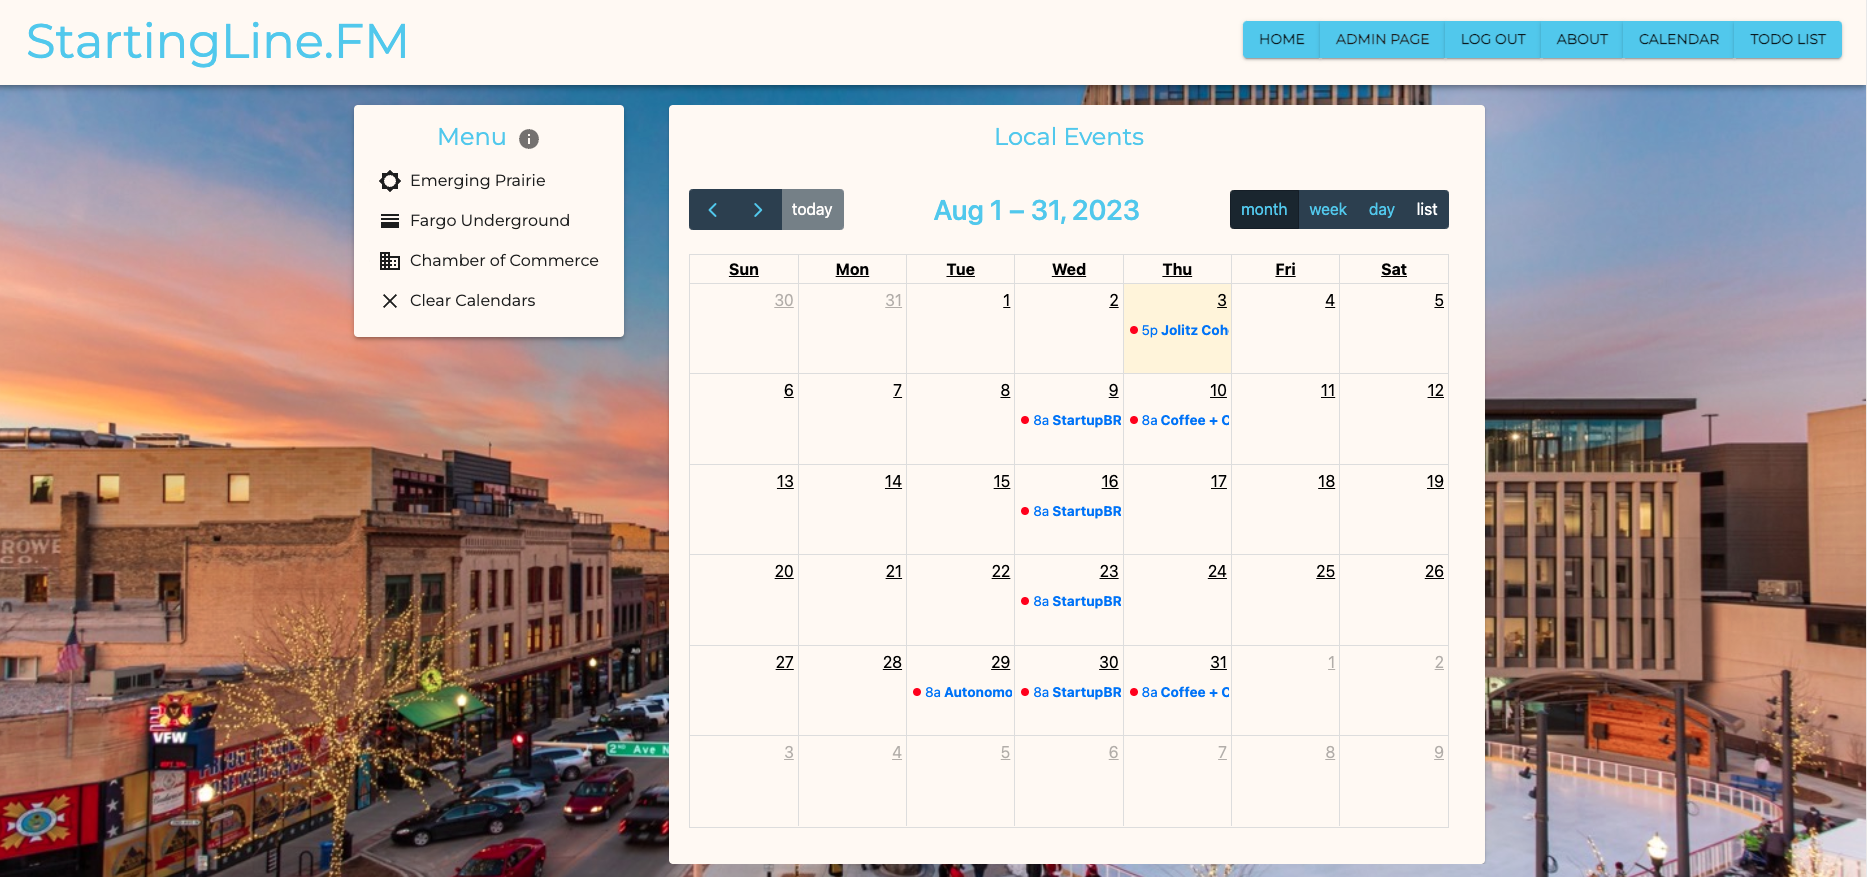
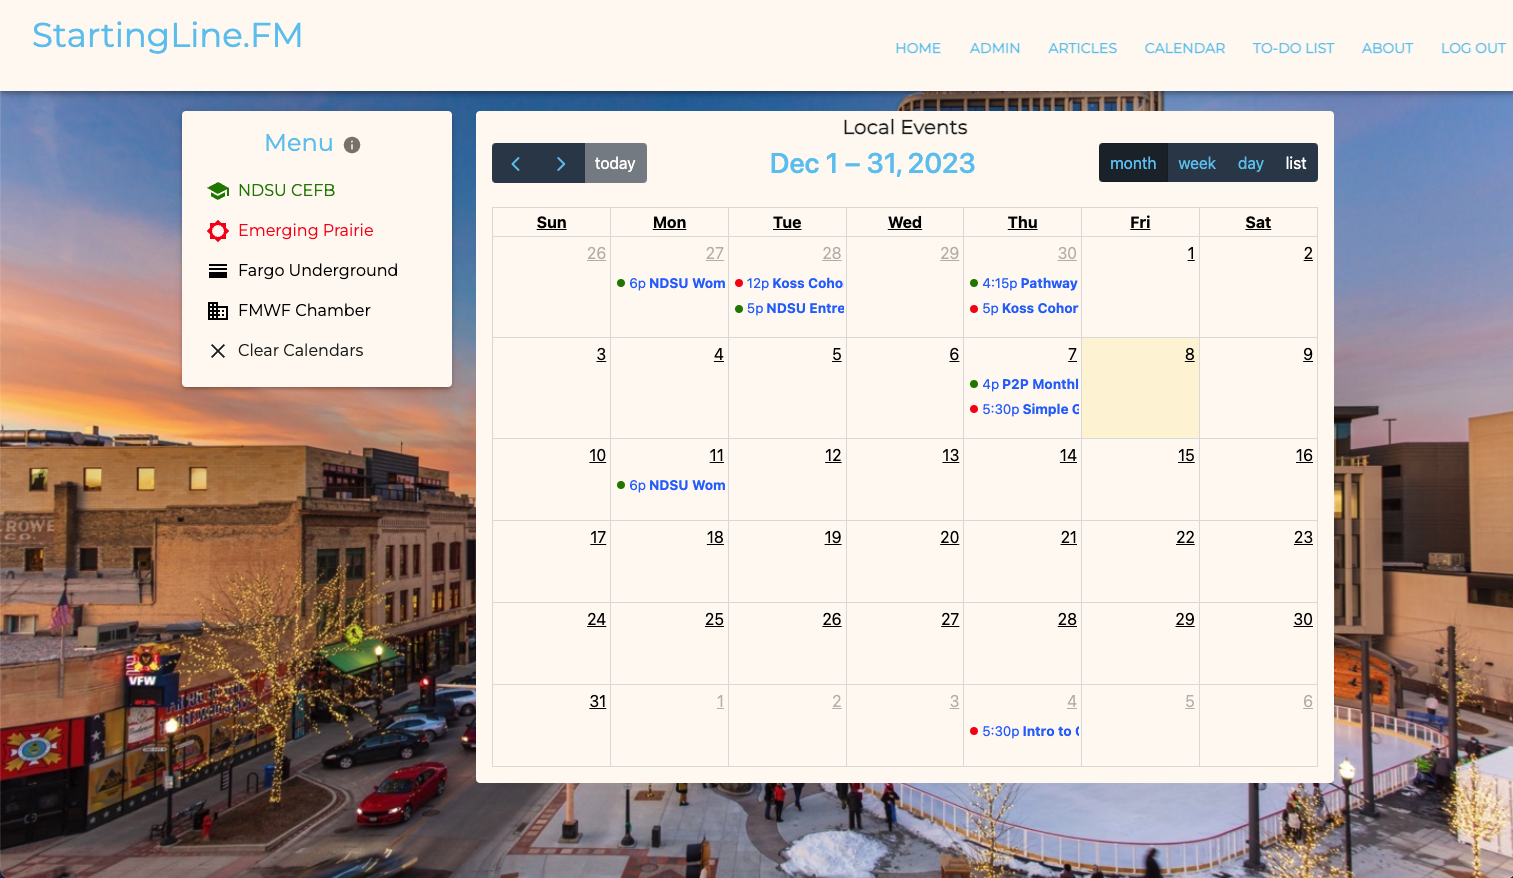
updated documentation
ReadMe and About page updated.

New screenshots for ReadMe.

diff --git a/src/components/Pages/AboutPage/AboutPage.jsx b/src/components/Pages/AboutPage/AboutPage.jsx
@@ -1,12 +1,6 @@
 import React from 'react';
 import { Container, Typography, Paper, List, ListItem, ListItemText } from '@mui/material';
 
-
-// This is one of our simplest components
-// It doesn't have local state,
-// It doesn't dispatch any redux actions or display any part of redux state
-// or even care what the redux state is'
-
 function AboutPage() {
   // style constants
   const titleStyle = { fontWeight: 'bold', marginBottom: '8px' };
@@ -36,29 +30,51 @@ function AboutPage() {
 
       <Paper style={{ marginTop: '20px', padding: '20px' }}>
         <Typography variant="h6" style={titleStyle} align="center">
-          Project and Team Information:
+          Jolitz Cohort Information:
         </Typography>
         <Typography variant="body1">
-          The project was the result of the first-time collaboration of a team comprising of Kord Maurer, Eyan Anderson, Sawyer Jensen, and Jack Blonigen. Their collective expertise and shared commitment paved the way for the creation of a web app to serve the startup business ecosystem for North Dakota State University.
+          StartingLine is the result of one of the two client projects executed by Emerging Digital Academy's Jolitz Cohort over the summer of 2023. The original StartingLine team consisted of Kord Maurer, Eyan Anderson, Sawyer Jenson, and Jack Blonigen. The four worked together to create the original MVP, each tackling one of four primary components. Individual contribution include....
         </Typography>
         <List>
           <ListItem>
-            <ListItemText primary="Kord Maurer" secondary="Kord stepped up to the challenge, demonstrating his technical abilities and teamwork skills in his first ever team project. Kord took the lead in developing a robust search filter, crafting an engaging landing page, and managing the presentation of search results. His versatility shone through in his assistance with the ToDo section, his work on the database, and his attention to aesthetic detail in the general styling of the project." />
+            <ListItemText primary="Kord Maurer" secondary="Kord took the lead in developing StartingLine's orginal search input algorithm, crafting and styling an engaging landing page, and managing the presentation of search results into the cards. He also contributed heavily with the ToDo section, database schemas, and his attention to aesthetic detail." />
           </ListItem>
           <ListItem>
-            <ListItemText primary="Eyan Anderson" secondary="Eyan navigated his first team project with a steadfast determination and quickly became a core member of the team. He undertook the demanding task of developing the majority of the ToDo section, creating an intuitive and functional tool for users. Eyan also played a significant role in shaping the project's aesthetic, contributing to the general styling and ensuring a visually cohesive and engaging user experience." />
+            <ListItemText primary="Eyan Anderson" secondary="Eyan undertook the task of developing the majority of the ToDo list feature, creating this intuitive and functional tool for users. Eyan also played a significant role in shaping the project's aesthetic, contributing to the general styling and ensuring a visually cohesive and engaging user experience." />
           </ListItem>
           <ListItem>
-            <ListItemText primary="Sawyer Jensen" secondary="For Sawyer, the project presented an opportunity to delve into team dynamics for the first time, and he embraced it with enthusiasm. He undertook the complex task of learning to scrape data and worked diligently on components of the admin section, contributing to general styling. His notable accomplishment was the implementation of the calendar, a feature that has added great value to the project." />
+            <ListItemText primary="Sawyer Jenson" secondary="Sawyer is the madman who did the Calendar feature; learning to web scrape data, apply regex expressions, and timezones; integrating all of it into the react full calendar api. He built and designed the institution side menu and the majority of the calendar feature. He also contributed to the admin page." />
           </ListItem>
           <ListItem>
-            <ListItemText primary="Jack Blonigen" secondary="Jack, despite being new to working in a team, demonstrated strong leadership and technical skills. He successfully handled the primary aspects of the admin section, ensuring a smooth backend functionality. Jack's expertise shone in his work on the calendar features specific to Google and his detailed work on the about section. His general contributions to styling further elevated the overall user experience." />
+            <ListItemText primary="Jack Blonigen" secondary="Jack handled the majority of the original admin section, writing most of the back end code, as well as front end forms. Jack also was the one to figure out and implement the google calendar functionality within StartingLine's own calendar. He also contributed greatly to original documentation." />
           </ListItem>
         </List>
         <Typography variant="body1" style={listItemStyle}>
           The foundation built by this first-time team sets the stage for an effective resource platform that could revolutionize the startup ecosystem in the Fargo-Moorhead area.
         </Typography>
       </Paper>
+
+
+
+      <Paper sx={{ mt: 3, p: 3 }}>
+        <Typography variant="h6" style={titleStyle} align="center">
+          Emerging Digital Academy Co-Op Program:
+        </Typography>
+        <Typography variant="body1" style={listItemStyle}>
+          In September of 2023, a little over a month after the Jolitz Cohort graduated on August 3rd, the EDA Co-Op program was born. Kord and Sawyer would continue working on the StartingLine application for Dr. Onnolee Nordstrom and Dr. Joshua Marineu.
+        </Typography>
+        <Typography variant="body1" style={listItemStyle}>
+          Over the Fall and Winter of 2023 Kord and Sawyer oversaw multiple bug fixes and visual changes including mobile responsiveness. The tag system was overhauled from just two separate tags to the five categories we have now. The Calendar also added its fourth institution, NDSU CEFB which is Dr. Onnolee's Office. The calendar was also changed to do a database cron-job instead of single GET requests that scraped the institution calendars live. The admin page also got a comprehensive facelift. 
+        </Typography>
+        <Typography variant="body1" style={listItemStyle}>
+          The most exhaustive and profound addition was the Algolia implementaion, a search handling software seen in applications like Amazon. Our hope is that one day StartingLine will have so many resources to filter through that this will be appreciated and help with rapid scaling.
+        </Typography>
+        <Typography variant="body1" style={listItemStyle}>
+          {/* Nothing, write a new paragraph here if you want. */}
+        </Typography>
+      </Paper>
+
+
 
       <Paper style={{ marginTop: '20px', padding: '20px' }}>
         <Typography variant="h6" style={titleStyle} align="center">

diff --git a/README.md b/README.md
@@ -2,61 +2,55 @@
 
 StartingLine.FM is a web app with the budding entrepreneur in mind!
 It's an online hub for entrepreneurial growth for those in the Fargo, Moorhead, West Fargo North Dakota (FMWF) area.
-This appllication was built as a client project for NDSU's department of business and entrepreneurship.
-The application aims to provide a centralized location for local resources. 
+This appllication was built by Emerging Digital Academy's Jolitz cohort as a client project for NDSU's center for entrepreneurship and family business during the Summer of 2023.
+The application aims to provide a centralized location for local resources.
+As of Winter 2023 it is now integrated with Algolia for a more thorough search experience. 
 
 The application has four primary components.
 
 1. The landing page where you search out resources that come in as cards, which can then be saved to a to-do list.
 2. The to-do list where all saved resources will appear. Users can edit notes, mark done, and remove them. 
-3. A three in one calendar that scrapes three different institutions web calendars to see local events. They are...
+3. A calendar that scrapes different institutions web calendars to see local events. They are...
   -Emerging Prairie
   -Fargo Underground
   -FMWF Chamber of Commerce
-4. Finally, an admin mode to add, edit, and delete resources as well as business categories and stages. 
-
-
+  -NDSU CEFB (Added in Fall of 2023)
+4. Finally, an admin mode to add, edit, and delete resources as well as all the tags that can be put on said resources. 
 
 ## Landing and Search Page
 
 ![Alt text](public/images/landing-page-screenshot.png)
 
-The Landing Page presents the user with a list of all resources available in alphabetical order upon arrival to the application.
-Users may narrow down their results using any combination of the Search bar, Category filters, and Business Stage filters on the left-hand side of the page.
-The result cards provide users with an at-a-glance view of the most relevant information for a resource: name, description, category, and applicable business stage. 
-By clicking on the card itself, users will see a pop-up modal containing more details, including contact information. The full set of possible information fields in the result modal are as follows: name, description, website, linkedin, email, address, category, and business stage. 
+-The Landing Page presents the user with twenty resources upon arrival.
+-Users may narrow down their results using the Search input which will query upon key stroke.
+-The application shows twenty resources on screen at a time. This is to prevent uneeded charges and a paid plan by Algolia.
+-Users can also access algolia refinement menus from the dropdowns on the left to better find what they're looking for using a system of five tags to better categoriaze resources.
+-The result cards provide users with an at-a-glance view of the most relevant information for a resource: name, description, support, entrepreneur, and funding tags. 
+-By clicking on the card itself, users will see a pop-up modal containing more details, including contact information. The full set of possible information fields in the result modal are as follows: name, description, website, linkedin, email, address, support tags, funding tags, entrepreneur tags, business stage tags, and organization tags(for example government).
 
-There are additional functionalities depending on the type of user as well:
+## Here is a breakdown of StartingLineFM's tag system:
+- Business Stage: What stage of the entrepreneurial process this resource best help.
+- Support Type: What kind of support this resource can offer an entrepreneur.
+- Funding TYpe: What kind of funding or funding assistance can be accessed here.
+- Entrepreneur: Some resources cater to a specific entrepreneur type or demographic.
+- Organization: What kind of institution this is; government, private, non-profit, etc.
 
-### Anonymous (unregistered) user:
-Ability to add a resource to a temporary to-do list via the `+ icon` button
-
-### Logged-in 
-- Ability to select from all available user to-do lists via the "Select a To-Do List" sidebar
-- Ability to add a resource to a selected to-do list via the `+ icon` button
-- If a user does not have any to-do lists to select, one will be automatically added with a generic "TO-DO (current date)" title and set as the currently selected list upon clicking the `+ icon` button on a resource
-
-### Admin
-Ability to edit resource details via the `edit icon` button in the Result modal
-
-## To-do List Page
+## To-Do Lists & Different types of users:
 
 ![Alt text](public/images/to-do-list-screenshot.png)
 
- *** EYAN INSERTS HIS DESCRIPTION HERE ***
- This to-do list page allows for users to create actionable steps to move toward their business goals. It provides a space for them to keep their resources that they thought would be a good fit for their business. 
+ This to-do list page allows for users to create actionable steps to move toward their business goals. It provides a space for them to keep their resources that they thought would be a good fit for their business.
 
- This page works for two types of users. 
+  This page works for two types of users.  
 
- ### Anonymous User
+Anonymous (unregistered) user:
  1. An anonymous user arrives to their to-do list tab and sees a list of their resources 
  - Click the `edit icon` to edit resources by adding notes to particular resources.
  - Click the `delete icon` to delete resources off of their todo list if they want to remove a resource.
  - Click the `copy icon` to copy their list of resources and their notes(if there are any) to their clipboard to paste into a workflow of their choice.
- - Click `Click here to register an account` to keep their current to-do list and associated titles. 
- - 
- 
- ### Logged In User
+ - Click `Click here to register an account` to keep their current to-do list and associated titles which will move onto the newly created account. 
+
+Logged-in (registered) user:
  1. A logged in user arrives on their to-do list tab and is met with two tables one with ther todo lists and one with the associated resources. 
  - View their lists on the landing page and choose which list to add resources to. 
  - Make multiple lists by clicking the `+` to add a list title and clicking the save icon to save it. 
@@ -68,47 +62,43 @@ Ability to edit resource details via the `edit icon` button in the Result modal
 
 ![Alt text](public/images/Calendar-page-screenshot.png)
 
+The motivation behind this calendar was that of the rest of this project, an eventual one-stop shop for the entrepreneur. Scheduling and managing a calendar is key for any business professional. We wanted a single calendar that can pull in relevant business events from other institutions event calendars. This helps save a potential researcher time from navigating multiple internet browser tabs and calendars. 
 
-The motivation behind this calendar was that of the rest of this project, an eventual one-stop shop for the entrepreneur. Scheduling and managing a calendar is key for any business professional. We wanted a single calendar that can pull in relevant business events from other institution calendars. This helps save a potential researcher time from navigating multiple internet browser tabs and calendars. 
-
-The calendar uses the Cheerio.js technology to scrape the relevant institutions web calendar. When you push one of the three institution buttons it launches an HTTP GET request to the relevant internet URL, Cheerio uses JQuery to scrape the relevant divs and spans,which are all consolidated into calendar block objects which are then put into an events array. The events array is the response to the client, they are placed into the relevant reducer which supplies data to the Fullcalendar.
-
-Multiple institutions can populate the calendar at once; Emerging Prairie is Red, Fargo Underground orange, and the chamber is purple. The Clear button will wipe all events off allowing better clarity and curating. If you mouse over a calendar event you will see more details on that event. Clicking the event will open your own google calendar and pre-populate the fields with what you saw when mousing over the event. You can use the upper buttons to toggle a month, week, day, or list view. The arrow buttons navigate through time windows. The today button will take you back to the current day.
-
-There are some significant vulnerabilities in this calendar to be aware of. Since the button press is what directly pulls the information, it will fail or break if that institution's calendar or webpage is down or reworked in the future (StartlingLine.FM was launched August 2023). 
+-The calendar uses the Cheerio.js technology to scrape the relevant institutions web calendar. -On weekdays from 8 am to 6 pm, at the top of the hour, a cron job will scrape all four institutions web calendars and place it in StartingLine's postgres databases.
+-Users can hit the info button right of "Menu" to see a guide on how to use the calendar.
+-Press one of the four institution buttons on under the left menu to add their events to the   StartingLine calendar. Clicking the button again will toggle that institution off.
+-Multiple institutions can populate the calendar at once; Emerging Prairie is Red, Fargo Underground orange, the chamber of commerce is purple, and NDSU CEFB is green. 
+-The Clear button will simply toggle all institutions off clearing the calendar. 
+-If you mouse over a calendar event you will see more details on that event. 
+-Clicking the event will open your own google calendar and pre-populate the fields with what you saw when mousing over the event. 
+-You can use the upper right buttons on the calendar to toggle a month, week, day, or list view. 
+-The arrow buttons navigate through time windows. 
+-The today button will take you back to the current day.
+-The Calendar cron job is set up to not take duplicates and delete events over 12 months old.
 
 ## Admin Page
 
-![Alt text](public/images/admin-page-screenshot.png)
+![Alt text](public/images/admin-edit-modal-screenshot.png)
+![Alt text](public/images/admin-page-screenshot-1.png)
+![Alt text](public/images/admin-page-screenshot-2.png)
 
+StartingLine users that are marked as admin gain access to two features.
 
-This Node.js Admin Router package is designed to streamline the management of administrative tasks related to three key data entities: Resources, Categories, and Stages. Encapsulating a series of RESTful API endpoints, the package provides the ability to execute CRUD (Create, Read, Update, Delete) operations for these entities, with each operation gated behind authentication and authorization middleware for secure and reliable administrative access control.
+1. Ability to edit or delete resources via the `edit icon` button in the Result modal.
+-The admin can edit any of the data fields or properties of a resource and confirm with save.
+-A resource must have an Organization and Business Stage and can only have one.
+-A resouce can optionally have a single entrepreneur tag.
+-A resource can have up to three support and up to three funding tags, or none at all.
+-To remove support/funding tags, change the selector to the default -- add a tag -- option.
+-Hit the save `disc icon` to confirm changes or the `X icon` to discard changes and leave the edit modal.
+-This edits the resource in the database and then saves to synchronize with algolia. 
 
-Key Features:
-Resource Management: Leverage the API to create, read, update, and delete resource records. Each resource holds specific details such as stage_id, category_id, name, image_url, description, website, email, address, and LinkedIn URL.
+2.Admin Users can also access the admin tab/page, a robust administrative interface.
+-Under the "Contribute Resource" form, new resources can be added to startingline's database which will synchronize with algolia's index. It then will appear on the landing page where it can be interacted with like any resource.
+-Scrolling down a ways will show multiple forms/cards for each of the five tag types. Here an admin can add, edit, or delete any tag under the five tag types. 
 
-Category Management: Manage categories through the dedicated endpoints that allow you to create, read, update, and delete category records. Each category consists of a unique name.
-
-Stage Management: Utilize the API endpoints to create, read, update, and delete stage records. Each stage has a unique name and description.
-
-Secure Access Control: With a two-tier middleware layer, access to administrative functions is tightly controlled. The rejectUnauthenticated middleware rejects non-authenticated users, while the isAdmin middleware checks the authenticated user's admin privileges, offering another layer of access control.
-
-The Admin Router package ensures that all these operations are securely accessible to authenticated users who have been granted admin privileges, ensuring your sensitive operations remain secure and your data integrity uncompromised.
-
-
-
-
-
-## Deployment
-
-1. Create a new Heroku project
-1. Link the Heroku project to the project GitHub Repo
-1. Create an Heroku Postgres database
-1. Connect to the Heroku Postgres database from Postico
-1. Create the necessary tables
-1. Add an environment variable for `SERVER_SESSION_SECRET` with a nice random string for security
-1. In the deploy section, select manual deploy
-
-## Update Documentation
-
-Customize this ReadMe and the code comments in this project to read less like a starter repo and more like a project. Here is an example: https://gist.github.com/PurpleBooth/109311bb0361f32d87a2
+ALGOLIA TECHNICAL NOTES:
+1. Due to the need for Algolia to synchronize with postgres databases with the agoliaSave function; it make take a few seconds and a screen refresh for the adding/editing of resources and tags to appear on the application.
+2. With the removal or addition of new tags; the facets of the index may need to be updated. 
+3. All StartingLine administrators should be familiar with how to use this applications Algolia account and how to configure the index for desired search behavior. 
+4. Remember to consult Algolia documentation when necessary.
